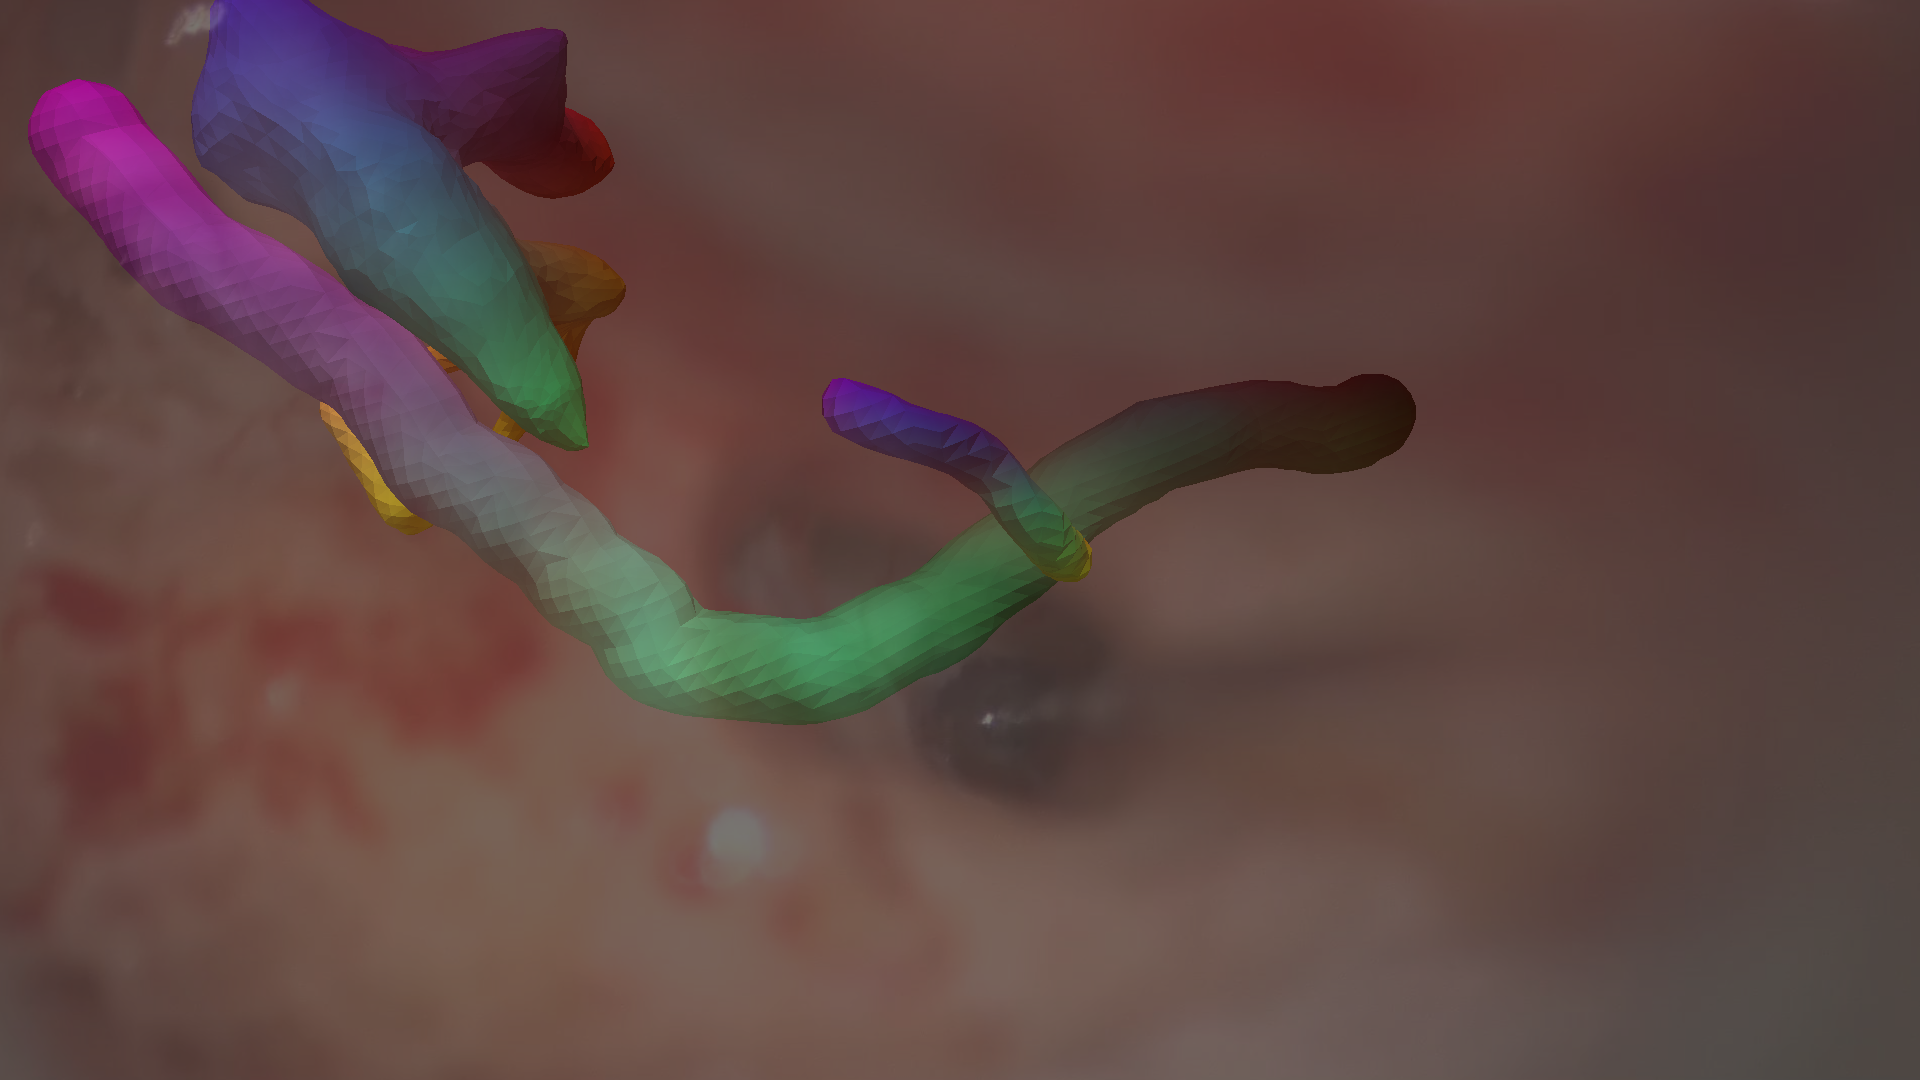
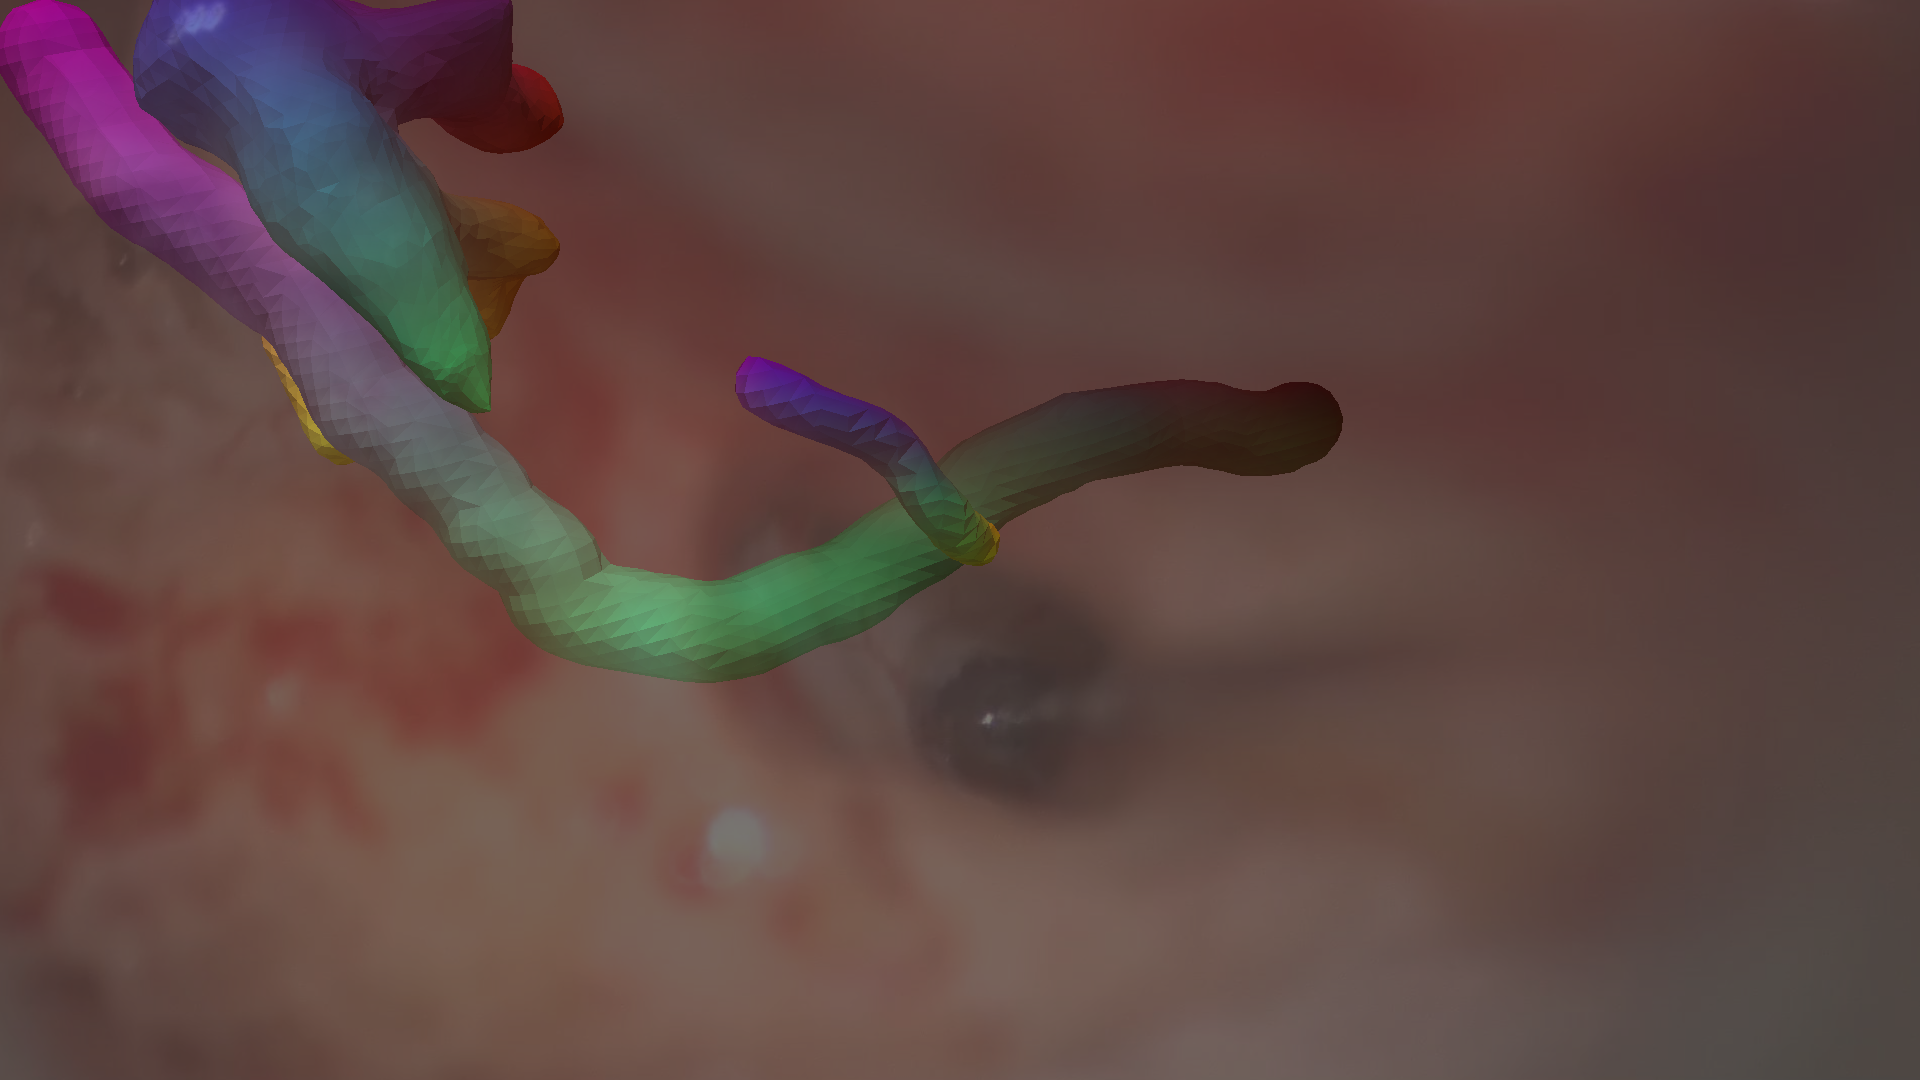
change the orientation and translation representation to transformation matrix representation

Changed region(s): [[0.0, 0.0, 0.75, 0.6722]]

diff --git a/vision6D/app.py b/vision6D/app.py
@@ -13,7 +13,7 @@ logger = logging.getLogger("vision6D")
 
 class App:
 
-    def __init__(self, register):
+    def __init__(self, register, image_path, scale_factor=[1,1,1]):
         
         self.register = register
         self.actors = {}
@@ -24,12 +24,12 @@ class App:
         self.xyviewcamera.focal_point = (9.6, 5.4, 0)
         self.xyviewcamera.up = (0.0, 1.0, 0.0)
         
-        # self.gt_orientation = (35.57143478233399, 86.14563590414456, 163.22833630484539)
-        # self.gt_position = (-4.892817134622411, 36.41065351570653, -5.650059814317807)
-        
-        self.gt_orientation = (6.835578651406617, 47.91692755829381, 172.76787223914218)
-        self.gt_position = (2.5987030981091648, 31.039133701224685, 14.477777915423951)
-        
+        self.transformation_matrix = np.array(
+            [[-0.66487539, -0.21262585, -0.71605235,  3.25029551],
+            [ 0.08437209, -0.97387229,  0.21084143, 30.99098483],
+            [-0.74217388,  0.07976845,  0.66544341, 14.47777792],
+            [ 0.        ,  0.        ,  0.        ,  1.        ]])
+                
         if self.register:
             self.pl = pv.Plotter(window_size=[1920, 1080])
         else:
@@ -46,6 +46,8 @@ class App:
         self.pi = pv.Plotter(window_size=[1920, 1080], lighting=None, off_screen=True)
         self.pi.store_image = True
         
+        self.load_image(image_path, scale_factor)
+        # self.plot()
         
     def load_image(self, image_path:pathlib.Path, scale_factor:list=[1,1,1]):
 
@@ -68,15 +70,6 @@ class App:
         self.actors["image"] = actor
         self.actors["image-origin"] = actor.copy()
         self.actor_attrs['image'] = actor_attr
-        
-    # def degree2matrix(self, r: list, t: list):
-    #     rot = R.from_euler("xyz", r, degrees=True)
-    #     rot = rot.as_matrix()
-
-    #     trans = np.array(t).reshape((-1, 1))
-    #     matrix = np.vstack((np.hstack((rot, trans)), np.array([0, 0, 0, 1])))
-
-    #     return matrix
 
     def load_mesh(self, mesh_path:pathlib.Path, name:str, rgb: bool = False):
 
@@ -87,14 +80,23 @@ class App:
 
         # Create image mesh and add it to the plotter
         mesh = pv.read(mesh_path)
+        
+        # mesh = mesh.rotate_x(6.835578651406617, inplace=False)
+        # mesh = mesh.rotate_y(47.91692755829381, inplace=False)
+        # mesh = mesh.rotate_z(172.76787223914218, inplace=False)
+        # mesh = mesh.translate((2.5987030981091648, 31.039133701224685, 14.477777915423951), inplace=False)
+        
+        # # Apply transformation to the mesh vertices
+        # vertices = mesh.points
+        # ones = np.ones((vertices.shape[0], 1))
+        # homogeneous_vertices = np.append(vertices, ones, axis=1)
+        # transformed_vertices = (self.transformation_matrix @ homogeneous_vertices.T)[:3].T
+        # mesh.points = transformed_vertices
 
         mesh = self.pl.add_mesh(mesh, rgb=rgb)
         
-        # actor.orientation = (0, 0, 0)
-        # actor.position = (0, 0, 0)
-        mesh.orientation = self.gt_orientation
-        mesh.position = self.gt_position
-
+        mesh.user_matrix = self.transformation_matrix
+        
         actor, actor_attr = self.pl.add_actor(mesh, name=name)
 
         # Save actor for later
@@ -120,20 +122,23 @@ class App:
     def event_track_registration(self, *args):
 
         for actor_name, actor in self.actors.items():
-            logger.debug(f"<Actor {actor_name}> R: {actor.orientation}, T: {actor.position}")
+            logger.debug(f"<Actor {actor_name}> RT: \n{actor.user_matrix}")
             
     def event_realign_facial_nerve_chorda(self, *args):
         
         objs = {'fix' : 'ossicles',
                 'move': ['facial_nerve', 'chorda']}
         
-        # obtain the original ossicles orientation and position
-        orientation = self.actors[f"{objs['fix']}"].orientation
-        position = self.actors[f"{objs['fix']}"].position
+        rt = self.actors[f"{objs['fix']}"].user_matrix
+        
+        # # obtain the original ossicles orientation and position
+        # orientation = self.actors[f"{objs['fix']}"].orientation
+        # position = self.actors[f"{objs['fix']}"].position
         
         for obj in objs['move']:
-            self.actors[f"{obj}"].orientation = orientation
-            self.actors[f"{obj}"].position = position
+            # self.actors[f"{obj}"].orientation = orientation
+            # self.actors[f"{obj}"].position = position
+            self.actors[f"{obj}"].user_matrix = rt
         
         logger.debug("realign_facial_nerve_chorda callback complete")
         
@@ -142,13 +147,10 @@ class App:
         objs = {'fix' : 'chorda',
                 'move': ['facial_nerve', 'ossicles']}
         
-        # obtain the original ossicles orientation and position
-        orientation = self.actors[f"{objs['fix']}"].orientation
-        position = self.actors[f"{objs['fix']}"].position
+        rt = self.actors[f"{objs['fix']}"].user_matrix
         
         for obj in objs['move']:
-            self.actors[f"{obj}"].orientation = orientation
-            self.actors[f"{obj}"].position = position
+            self.actors[f"{obj}"].user_matrix = rt
         
         logger.debug("realign_facial_nerve_ossicles callback complete")
         
@@ -157,13 +159,10 @@ class App:
         objs = {'fix' : 'facial_nerve',
                 'move': ['chorda', 'ossicles']}
         
-        # obtain the original ossicles orientation and position
-        orientation = self.actors[f"{objs['fix']}"].orientation
-        position = self.actors[f"{objs['fix']}"].position
+        rt = self.actors[f"{objs['fix']}"].user_matrix
         
         for obj in objs['move']:
-            self.actors[f"{obj}"].orientation = orientation
-            self.actors[f"{obj}"].position = position
+            self.actors[f"{obj}"].user_matrix = rt
         
         logger.debug("realign_chorda_ossicles callback complete")
         
@@ -172,21 +171,25 @@ class App:
         for actor_name, actor in self.actors.items():
             if actor_name == "image":
                 continue
-            actor.orientation = self.gt_orientation
-            actor.position = self.gt_position
+            # actor.orientation = self.gt_orientation
+            # actor.position = self.gt_position
+            actor.user_matrix = self.transformation_matrix
             
         logger.debug("event_gt_position callback complete")
         
     def event_change_gt_position(self, *args):
         
-        self.gt_orientation = self.actors["ossicles"].orientation
-        self.gt_position = self.actors["ossicles"].position
+        # self.gt_orientation = self.actors["ossicles"].orientation
+        # self.gt_position = self.actors["ossicles"].position
+        
+        self.transformation_matrix = self.actors["ossicles"].user_matrix
         
         for actor_name, actor in self.actors.items():
             if actor_name == "image":
                 continue
-            actor.orientation = self.gt_orientation
-            actor.position = self.gt_position
+            # actor.orientation = self.gt_orientation
+            # actor.position = self.gt_position
+            actor.user_matrix = self.transformation_matrix
             
         logger.debug("event_change_gt_position callback complete")
         
@@ -221,6 +224,7 @@ class App:
             res_plot = Image.fromarray(result)
             res_plot.save("res_plot.png")
         
+        logger.debug(f"\nrt: \n{self.actors['ossicles'].user_matrix}")
         logger.debug(f"\ncpos: {cpos}")
         
     def render_image(self, image_path, scale_factor):
@@ -247,8 +251,7 @@ class App:
         mesh = pv.read(mesh_path)
         mesh = self.pr.add_mesh(mesh, rgb=rgb)
         
-        mesh.orientation = self.gt_orientation
-        mesh.position = self.gt_position
+        mesh.user_matrix = self.transformation_matrix
     
         self.pr.camera = self.xyviewcamera.copy()
         

diff --git a/vision6D/realign.py b/vision6D/realign.py
@@ -1,0 +1,82 @@
+"""
+ RALIGN - Rigid alignment of two sets of points in k-dimensional
+          Euclidean space.  Given two sets of points in
+          correspondence, this function computes the scaling,
+          rotation, and translation that define the transform TR
+          that minimizes the sum of squared errors between TR(X)
+          and its corresponding points in Y.  This routine takes
+          O(n k^3)-time.
+
+ Inputs:
+   X - a k x n matrix whose columns are points 
+   Y - a k x n matrix whose columns are points that correspond to
+       the points in X
+ Outputs: 
+   c, R, t - the scaling, rotation matrix, and translation vector
+             defining the linear map TR as 
+ 
+                       TR(x) = c * R * x + t
+
+             such that the average norm of TR(X(:, i) - Y(:, i))
+             is minimized.
+"""
+
+"""
+Copyright: Carlo Nicolini, 2013
+Code adapted from the Mark Paskin Matlab version
+from http://openslam.informatik.uni-freiburg.de/data/svn/tjtf/trunk/matlab/ralign.m 
+"""
+
+import numpy as np
+
+def ralign(X,Y):
+    m, n = X.shape
+
+    mx = X.mean(1)
+    my = Y.mean(1)
+    Xc =  X - np.tile(mx, (n, 1)).T
+    Yc =  Y - np.tile(my, (n, 1)).T
+
+    sx = np.mean(np.sum(Xc*Xc, 0))
+    sy = np.mean(np.sum(Yc*Yc, 0))
+
+    Sxy = np.dot(Yc, Xc.T) / n
+
+    U,D,V = np.linalg.svd(Sxy,full_matrices=True,compute_uv=True)
+    V=V.T.copy()
+    print(U,"\n\n",D,"\n\n",V)
+    r = np.linalg.matrix_rank(Sxy)
+    d = np.linalg.det(Sxy)
+    S = np.eye(m)
+    if r > (m - 1):
+        if ( np.det(Sxy) < 0 ):
+            S[m, m] = -1
+        elif (r == m - 1):
+            if (np.det(U) * np.det(V) < 0):
+                S[m, m] = -1  
+        else:
+            R = np.eye(2)
+            c = 1
+            t = np.zeros(2)
+            return R,c,t
+
+    R = np.dot( np.dot(U, S ), V.T)
+
+    c = np.trace(np.dot(np.diag(D), S)) / sx
+    t = my - c * np.dot(R, mx)
+
+    return R,c,t
+
+if __name__ == "__main__":
+
+    # Run an example test
+    # We have 3 points in 3D. Every point is a column vector of this matrix A
+    A=np.array([[0.57215 ,  0.37512 ,  0.37551] ,[0.23318 ,  0.86846 ,  0.98642],[ 0.79969 ,  0.96778 ,  0.27493]])
+    # Deep copy A to get B
+    B=A.copy()
+    # and sum a translation on z axis (3rd row) of 10 units
+    B[2,:]=B[2,:]+10
+
+    # Reconstruct the transformation with ralign.ralign
+    R, c, t = ralign(A,B)
+    print("Rotation matrix=\n",R,"\nScaling coefficient=",c,"\nTranslation vector=",t)

diff --git a/test/test_load_image.py b/test/test_load_image.py
@@ -16,8 +16,8 @@ TEST_IMAGE_PATH = DATA_DIR / "RL_20210304_0.jpg"
 
 @pytest.fixture
 def app():
-    # return vis.App(register=True)
-    return vis.App(register=False)
+    # return vis.App(True, TEST_IMAGE_PATH, [0.01, 0.01, 1])
+    return vis.App(False, TEST_IMAGE_PATH, [0.01, 0.01, 1])
 
 def test_create_app(app):
     assert isinstance(app, vis.App)
@@ -28,22 +28,14 @@ def test_load_image(app):
 
 def test_load_mesh(app):
     app.load_mesh(DATA_DIR / "ossicles_001_colored_not_centered.ply", name="ossicles", rgb=True)
-    app.load_mesh(DATA_DIR / "facial_nerve_001_colored_not_centered.ply", name="facial_nerve")
-    app.load_mesh(DATA_DIR / "chorda_001_colored_not_centered.ply", name="chorda")
-    app.plot()
-
-def test_plot_image_ossicles(app):
-    app.load_image(TEST_IMAGE_PATH, scale_factor=[0.01, 0.01, 1])
-    app.load_mesh(DATA_DIR / "ossicles_001_colored_not_centered.ply", name="ossicles", rgb = True)
-    app.load_mesh(DATA_DIR / "facial_nerve_001_colored_not_centered.ply", name="facial_nerve", rgb = True)
-    app.load_mesh(DATA_DIR / "chorda_001_colored_not_centered.ply", name="chorda", rgb = True)
+    app.load_mesh(DATA_DIR / "facial_nerve_001_colored_not_centered.ply", name="facial_nerve", rgb=True)
+    app.load_mesh(DATA_DIR / "chorda_001_colored_not_centered.ply", name="chorda", rgb=True)
     app.plot()
 
 def test_render_ossicles(app):
     app.render_ossicles([0.01, 0.01, 1], DATA_DIR / "ossicles_001_colored_not_centered.ply", rgb=True)
     
 def test_plot_render(app):
-    app.load_image(TEST_IMAGE_PATH, scale_factor=[0.01, 0.01, 1])
     app.load_mesh(DATA_DIR / "ossicles_001_colored_not_centered.ply", name="ossicles", rgb = True)
     app.load_mesh(DATA_DIR / "facial_nerve_001_colored_not_centered.ply", name="facial_nerve", rgb = True)
     app.load_mesh(DATA_DIR / "chorda_001_colored_not_centered.ply", name="chorda", rgb = True)

diff --git a/vision6D/temp.py b/vision6D/temp.py
@@ -1,0 +1,32 @@
+# alpha = 6.835578651406617
+# beta = 47.91692755829381
+# gama = 172.76787223914218
+
+# # rotation_matrix_extrinsic = np.array([
+# #     [np.cos(beta)*np.cos(gama), np.sin(alpha)*np.sin(beta)*np.cos(gama)-np.cos(alpha)*np.sin(gama), np.cos(alpha)*np.sin(beta)*np.cos(gama)+np.sin(alpha)*np.sin(gama)],
+# #     [np.cos(beta)*np.sin(gama), np.sin(alpha)*np.sin(beta)*np.sin(gama)+np.cos(alpha)*np.cos(gama), np.cos(alpha)*np.sin(beta)*np.sin(gama)-np.sin(alpha)*np.cos(gama)],
+# #     [-np.sin(beta), np.sin(alpha)*np.cos(beta), np.cos(alpha)*np.cos(beta)]
+# # ])
+
+# rotation_matrix_intrinsic = np.array([
+#     [np.cos(alpha)*np.cos(beta), np.cos(alpha)*np.sin(beta)*np.sin(gama)-np.sin(alpha)*np.cos(gama), np.cos(alpha)*np.sin(beta)*np.cos(gama)+np.sin(alpha)*np.sin(gama)],
+#     [np.sin(alpha)*np.cos(beta), np.sin(alpha)*np.sin(beta)*np.sin(gama)+np.cos(alpha)*np.cos(gama), np.sin(alpha)*np.sin(beta)*np.cos(gama)-np.cos(alpha)*np.sin(gama)],
+#     [-np.sin(beta), np.cos(beta)*np.sin(gama), np.cos(beta)*np.cos(gama)]
+# ])
+
+
+# trans_vector = np.array(list(self.gt_position)).reshape((-1, 1))
+# # self.transformation_matrix = np.vstack((np.hstack((rotation_matrix_intrinsic, trans_vector)), np.array([0, 0, 0, 1])))
+
+def degree2matrix(self, r: list, t: list):
+    rot = R.from_euler("xyz", r, degrees=True)
+    rot = rot.as_matrix()
+    
+    # convert to euler angles
+    rot_matrix = R.from_matrix(rot)
+    euler = rot_matrix.as_euler('xyz', True)
+
+    trans = np.array(t).reshape((-1, 1))
+    matrix = np.vstack((np.hstack((rot, trans)), np.array([0, 0, 0, 1])))
+
+    return matrix

diff --git a/vision6D/test_sample.py b/vision6D/test_sample.py
@@ -18,9 +18,6 @@ if __name__ == "__main__":
     
     # image_grey_np = np.array(image_grey)
     
-    # # pixels = [i for i in image_grey.getdata()]
-    # # assert not (255, 255, 255) in pixels, "(255, 255, 255) in pixels"
-    
     # sought = [0,0,0]
     # black  = np.count_nonzero(np.all(image_grey_np==sought,axis=2))
     # print(f"black: {black}")
@@ -29,13 +26,21 @@ if __name__ == "__main__":
     # white  = np.count_nonzero(np.all(image_grey_np==sought,axis=2))
     # print(f"white: {white}")
     
-    image_white_bg = Image.open("res_render.png")
+    image_white = Image.open("res_render.png")
     
-    image_white_bg = np.array(image_white_bg)
+    pixels = [i for i in image_white.getdata()]
+    assert not (0, 0, 0) in pixels, "(0, 0, 0) in pixels"
+    
+    image_white_bg = np.array(image_white)
     
     image_black_bg = copy.deepcopy(image_white_bg)
     
     image_black_bg[np.where((image_black_bg[...,0] == 255) & (image_black_bg[...,1] == 255) & (image_black_bg[...,2] == 255))] = [0,0,0]
+    
+    image_black = Image.fromarray(image_black_bg)
+    
+    pixels = [i for i in image_black.getdata()]
+    assert not (255, 255, 255) in pixels, "(255, 255, 255) in pixels"
      
     frame = Image.open("image.png")
     
